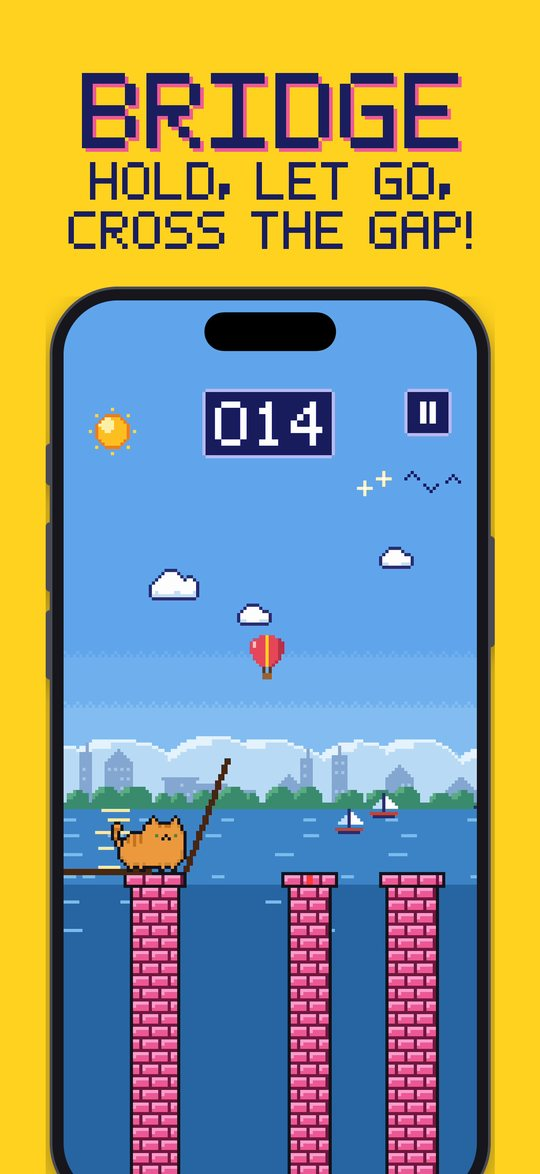
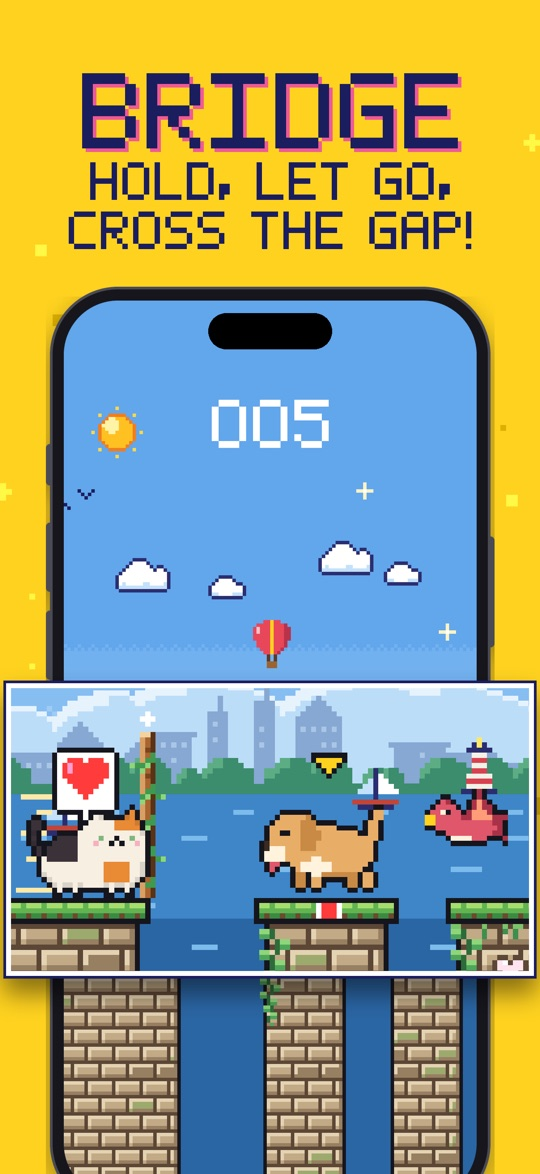
Remove playable demo, use latest App Store screenshots

diff --git a/assets/pixel.js b/assets/pixel.js
@@ -1,4 +1,4 @@
-// Fatty Cat site: the game's 5x7 pixel font (headings) and a tiny playable hero.
+// Fatty Cat site: the game's 5x7 pixel font for headings.
 (() => {
   "use strict";
 
@@ -81,149 +81,4 @@
     el.insertAdjacentHTML("beforeend", svgFor(text, fill, shadow)); // markup built only from glyph data
     el.classList.add("px-ready");
   });
-
-  // ── Mini game ─────────────────────────────────────────────────────
-  const canvas = document.getElementById("play");
-  if (!canvas) return;
-  const ctx = canvas.getContext("2d");
-  const C = {
-    sky: "#62A6EC", bands: ["#72B1EF", "#86BEF2", "#9ECCF5"], bank: "#BCDDF8", trees: "#3C8C6E", treesLight: "#5CAD84",
-    water: "#3E86C8", waterDeep: "#2A66A4", waterLight: "#7CBCEC", pink: "#EE5A96", pinkLight: "#FF9DCF",
-    pinkDark: "#6E1A40", outline: "#15151C", marker: "#FF3B3B", stick: "#4A2712", navy: "#1B1E5E",
-    badge: "#B9BCF4", yellow: "#FFD21F", white: "#FFFFFF",
-  };
-  // Peach, the cat from the store screenshots (CatSkin.swift body, mirrored to face right)
-  const flip = (r) => [...r].reverse().join("");
-  const BODY = [
-    "...K......K.............", "..KFK....KFK............", "..KFSKKKKSFKK........KK.", ".KSFFPPFPFFFFK......KTTK",
-    ".KFFFFFFFFFFFK......KTTK", "KSFFFFFFFFFFFFKKKK...KtK", "KFFEFFNFFEFFFFPFPFK..KTK", "KFCFFNFNFFCFFFPFPFFKKKtK",
-    "KFFFFFFFFFFFFFFFFFFFKTK.", "KFFFFFFFFFFFFFFFFFFFKTK.", "KFFFFFFFFFFFFFFFFFFFFK..", "KSFFFFFFFFFFFFFFFFFFFK..",
-    "KSFBBBBBBBBBBBBBBFFFFK..", "KSFBBBBBBBBBBBBBBFFFSK..", ".KSBBBBBBBBBBBBBBFFSK...", "..KSFSSFSFFFFSFSSFSK....",
-  ];
-  const CAT = BODY.concat(["...KFKKFKKKKKKFKKFK.....", "...KK..KK....KK..KK....."]).map(flip);
-  const CAT_WALK = BODY.concat(["...KFKKKKKKKKKFKKKK.....", "...KK........KK........."]).map(flip);
-  const CAT_COL = { K: C.outline, F: "#F7C4A0", S: "#E0A07C", P: "#E0A07C", E: "#8B6BC6", N: C.outline, C: "#F69AA8", T: "#F7C4A0", t: "#E0A07C", B: "#FFF0E4" };
-  const CLOUD = ["....LLLL....", "..LLWWWWLL..", ".LWWWWWWWWLL", "LWWWWWWWWWWL", "LSSWWWWWWSSL", ".LLLLLLLLLL."];
-  const CLOUD_COL = { L: "#2A2E70", W: C.white, S: "#C3E1FA" };
-  const CAT_W = 24, CAT_H = 18, GH = 64, TOP = 42, GROW = 62, WALK = 50, ROT = 0.32, SCROLL = 0.4;
-
-  let s = 1, GW = 120, pillars = [], cam = 0, camFrom = 0, camTo = 0, t = 0;
-  let phase = "idle", stick = 0, angle = 0, clock = 0, heroX = 0, heroY = 0, vy = 0;
-  let score = 0, best = 0, bonus = 0, walkTo = 0, landed = null, base = null;
-
-  const rand = (a, b) => a + Math.random() * (b - a);
-  function addPillar() {
-    const last = pillars[pillars.length - 1];
-    const x = last ? last.x + last.w + Math.round(rand(12, Math.min(52, GW * 0.42))) : 0;
-    pillars.push({ x, w: last ? Math.round(rand(16, 34)) : 30 });
-  }
-  function reset() {
-    pillars = []; addPillar(); while (pillars[pillars.length - 1].x < GW * 2) addPillar();
-    base = pillars[0]; cam = camFrom = camTo = 0; score = 0; phase = "idle"; stick = 0; angle = 0; vy = 0;
-    heroX = base.x + base.w - CAT_W + 2; heroY = TOP;
-  }
-  const nextOf = (p) => pillars[pillars.indexOf(p) + 1];
-
-  function resize() {
-    const dpr = Math.min(window.devicePixelRatio || 1, 3);
-    s = Math.max(2, Math.floor((canvas.clientHeight * dpr) / GH));
-    canvas.height = GH * s;
-    canvas.width = Math.ceil((canvas.clientWidth * dpr) / s) * s;
-    GW = canvas.width / s;
-    if (!pillars.length || (phase === "idle" && score === 0)) reset();
-  }
-
-  const px = (x, y, w, h, c) => { ctx.fillStyle = c; ctx.fillRect(Math.round(x) * s, Math.round(y) * s, w * s, h * s); };
-  const text = (str, x, y, c) => eachRun(str, (rx, ry, rw) => px(x + rx, y + ry, rw, 1, c));
-
-  function draw() {
-    px(0, 0, GW, GH, C.sky);
-    C.bands.forEach((c, i) => px(0, 22 + i * 3, GW, 3, c));
-    const span = GW + 40;
-    [[10, 6], [47, 13], [83, 4], [121, 10]].forEach(([cx, cy]) => {
-      const x = ((cx * 3 - cam * 0.2) % span + span) % span - 20;
-      CLOUD.forEach((row, y) => { for (let i = 0; i < row.length; i++) if (row[i] !== ".") px(x + i, cy + y, 1, 1, CLOUD_COL[row[i]]); });
-    });
-    px(0, 31, GW, 2, C.bank);
-    for (let x = -(Math.floor(cam * 0.3) % 9); x < GW; x += 9) { px(x, 32, 6, 2, C.treesLight); px(x + 2, 31, 3, 1, C.treesLight); }
-    px(0, 34, GW, 2, C.trees);
-    px(0, 36, GW, GH - 36, C.water);
-    for (let x = -(Math.floor(cam * 0.6) % 23); x < GW; x += 23) { px(x + 3, 39, 4, 1, C.waterLight); px(x + 14, 47, 5, 1, C.waterLight); }
-    px(0, TOP + 4, GW, GH, C.waterDeep);
-
-    const target = nextOf(base);
-    for (const p of pillars) {
-      const x = p.x - cam;
-      if (x > GW || x + p.w < 0) continue;
-      px(x - 1, TOP, p.w + 2, GH, C.outline);
-      px(x, TOP + 1, p.w, GH, C.pink);
-      px(x, TOP + 1, p.w, 1, C.pinkLight);
-      for (let y = TOP + 4, row = 0; y < GH; y += 3, row++) {
-        px(x, y, p.w, 1, C.pinkDark);
-        for (let bx = (row % 2) * 3 + 1; bx < p.w; bx += 6) px(x + bx, y + 1, 1, 2, C.pinkDark);
-      }
-      if (p === target && phase !== "walking") px(x + Math.floor(p.w / 2) - 1, TOP, 2, 1, C.marker);
-    }
-
-    // stick: pivot at the base pillar's right edge, angle 0 = up, π/2 = flat
-    if (stick > 0) {
-      const ox = base.x + base.w - 1 - cam;
-      for (let i = 0; i < Math.round(stick); i++) px(ox + Math.sin(angle) * i, TOP - 1 - Math.cos(angle) * i, 1, 1, C.stick);
-    }
-
-    const sprite = phase === "walking" && Math.floor(clock * 8) % 2 ? CAT_WALK : CAT;
-    sprite.forEach((row, y) => { for (let x = 0; x < row.length; x++) if (row[x] !== ".") px(heroX - cam + x, heroY - CAT_H + y, 1, 1, CAT_COL[row[x]]); });
-
-    const label = String(score).padStart(3, "0"), bw = textWidth(label) + 6, bx = Math.floor((GW - bw) / 2);
-    px(bx - 1, 3, bw + 2, 13, C.badge); px(bx, 4, bw, 11, C.navy); text(label, bx + 3, 6, C.white);
-    if (bonus > 0) text("Perfect +2", Math.round(heroX - cam - 4), heroY - CAT_H - 10, C.yellow);
-    if (phase === "idle" && score === 0) text(best ? `Best ${best}` : "Hold to build", Math.round(heroX - cam) + CAT_W + 4, 18, C.navy);
-  }
-
-  function step(dt) {
-    clock += dt; bonus = Math.max(0, bonus - dt);
-    if (phase === "growing") stick = Math.min(stick + GROW * dt, GW - 8);
-    else if (phase === "rotating") {
-      t += dt; angle = Math.min(1, t / ROT) ** 2 * Math.PI / 2;
-      if (t >= ROT) {
-        const tip = base.x + base.w - 1 + stick, nx = nextOf(base);
-        landed = nx && tip >= nx.x && tip <= nx.x + nx.w ? nx : null;
-        walkTo = landed ? landed.x + landed.w - CAT_W + 2 : tip - CAT_W / 2;
-        if (landed && Math.abs(tip - (landed.x + landed.w / 2)) <= 1.5) { score += 2; bonus = 1; }
-        else if (landed) score += 1;
-        phase = "walking";
-      }
-    } else if (phase === "walking") {
-      heroX = Math.min(walkTo, heroX + WALK * dt);
-      if (heroX >= walkTo) {
-        if (landed) {
-          stick = 0; angle = 0; base = landed; phase = "scrolling"; t = 0; camFrom = cam; camTo = landed.x - 4;
-          while (pillars[pillars.length - 1].x < camTo + GW * 2) addPillar();
-        } else { phase = "falling"; vy = 0; t = 0; }
-      }
-    } else if (phase === "scrolling") {
-      t += dt; const k = Math.min(1, t / SCROLL); cam = camFrom + (camTo - camFrom) * (1 - (1 - k) ** 3);
-      if (k >= 1) { phase = "idle"; pillars = pillars.filter((p) => p.x + p.w > cam - 4); }
-    } else if (phase === "falling") {
-      t += dt; vy += 400 * dt; heroY += vy * dt;
-      if (t > 1.1) { best = Math.max(best, score); reset(); }
-    }
-  }
-
-  let last = 0, running = false;
-  function frame(now) {
-    step(Math.min((now - last) / 1000, 1 / 20)); last = now; draw();
-    if (phase !== "idle" || bonus > 0) requestAnimationFrame(frame); else running = false;
-  }
-  const kick = () => { if (!running) { running = true; last = performance.now(); requestAnimationFrame(frame); } };
-
-  function press() { if (phase === "idle") { phase = "growing"; stick = 0; angle = 0; kick(); } }
-  function release() { if (phase === "growing") { phase = "rotating"; t = 0; } }
-  canvas.addEventListener("pointerdown", (e) => { e.preventDefault(); canvas.setPointerCapture(e.pointerId); press(); });
-  ["pointerup", "pointercancel"].forEach((n) => canvas.addEventListener(n, release));
-  canvas.addEventListener("contextmenu", (e) => e.preventDefault());
-  canvas.addEventListener("keydown", (e) => { if (e.code === "Space" || e.code === "Enter") { e.preventDefault(); if (!e.repeat) press(); } });
-  canvas.addEventListener("keyup", (e) => { if (e.code === "Space" || e.code === "Enter") release(); });
-
-  new ResizeObserver(() => { resize(); draw(); }).observe(canvas);
 })();

diff --git a/index.html b/index.html
@@ -32,21 +32,19 @@
     <a class="cta" href="https://apps.apple.com/vn/app/fatty-cat-offline-game/id6810916736" rel="noopener">Download on the App Store</a>
     <span class="cta-note">Free on iPhone and iPad. No ads, no purchases.</span>
   </div>
-  <div class="stage">
-    <canvas id="play" tabindex="0" aria-label="Playable demo. Press and hold the scene or the space bar to grow the stick, then let go to drop it."></canvas>
-    <p class="stage-hint">Try it here: press and hold the scene (or the space bar), then let go.</p>
-  </div>
 </section>
 
 <section class="screens" aria-labelledby="screens-title">
   <div class="wrap"><h2 id="screens-title" class="px" data-px>In the game</h2></div>
   <ul class="strip">
-      <li><img src="assets/shots/01-bridge.jpg" width="540" height="1174" loading="lazy" alt="Bridge the gap: hold, let go, cross. The cat stands on a pink brick pillar as its stick falls toward the next one."></li>
-      <li><img src="assets/shots/02-pick.jpg" width="540" height="1174" loading="lazy" alt="Pick from 31 chunky cats: the Pick a cat screen with a grid of pixel cats."></li>
-      <li><img src="assets/shots/03-relax.jpg" width="540" height="1174" loading="lazy" alt="Relax under day and night skies: the cat crossing pillars under a starry night sky."></li>
-      <li><img src="assets/shots/04-beat.jpg" width="540" height="1174" loading="lazy" alt="Beat your best with Perfect +2: the cat lands in the middle of a pillar for a bonus."></li>
-      <li><img src="assets/shots/05-noads.jpg" width="540" height="1174" loading="lazy" alt="No ads, no wifi needed: the Fatty Cat start screen with the Play button."></li>
-      <li><img src="assets/shots/06-free.jpg" width="540" height="1174" loading="lazy" alt="Every cat is free with no purchases: the second page of the cat picker."></li>
+      <li><img src="assets/shots/01-bridge.jpg" width="540" height="1174" loading="lazy" alt="Bridge: hold, let go, cross the gap. The cat stands on a brick pillar as its stick falls toward the next one."></li>
+      <li><img src="assets/shots/02-dodge.jpg" width="540" height="1174" loading="lazy" alt="Dodge dogs and birds with a swipe: the cat leaps over a charging dog."></li>
+      <li><img src="assets/shots/03-pick.jpg" width="540" height="1174" loading="lazy" alt="Pick from 31 chunky cats: the Pick a cat screen with a grid of pixel cats."></li>
+      <li><img src="assets/shots/04-bonk.jpg" width="540" height="1174" loading="lazy" alt="Bonk: laugh at every silly tumble when a dog knocks the cat off."></li>
+      <li><img src="assets/shots/05-relax.jpg" width="540" height="1174" loading="lazy" alt="Relax under day and night skies: the cat crossing pillars at night."></li>
+      <li><img src="assets/shots/06-beat.jpg" width="540" height="1174" loading="lazy" alt="Beat your best with Perfect +2: the cat lands in the middle of a pillar for a bonus."></li>
+      <li><img src="assets/shots/07-play.jpg" width="540" height="1174" loading="lazy" alt="Free, no ads, no wifi needed: the Fatty Cat start screen with the Play button."></li>
+      <li><img src="assets/shots/08-badges.jpg" width="540" height="1174" loading="lazy" alt="Collect 49 badges to earn and claim: the Badges screen with progress bars."></li>
   </ul>
 </section>
 
@@ -56,7 +54,8 @@
       <h2 id="inside-title" class="px" data-px>What's inside</h2>
       <ul class="facts">
         <li><strong>31 chunky cats</strong>, every one free from the first launch.</li>
-        <li>One-finger controls: hold to grow the stick, let go to drop it.</li>
+        <li>One-finger controls: hold to grow the stick, let go to drop it, swipe up to jump over dogs and birds.</li>
+        <li><strong>49 badges</strong> to earn and claim.</li>
         <li>Drop the stick on a pillar's red mark for <strong>Perfect +2</strong>.</li>
         <li>The sky follows your clock, from sunny morning to starry night. Pin your favourite in Settings.</li>
         <li><strong>No ads, no purchases, no account, no tracking.</strong> Plays fully offline.</li>

diff --git a/assets/style.css b/assets/style.css
@@ -69,18 +69,6 @@ a.cta:hover { transform: translate(2px, 2px); box-shadow: 3px 3px 0 var(--outlin
 a.cta:active { transform: translate(5px, 5px); box-shadow: none; }
 .cta-note { display: block; margin-top: 0.9rem; font-size: 0.95rem; }
 
-.stage { margin-top: clamp(2rem, 6vw, 3.5rem); }
-#play {
-  display: block; width: 100%; height: clamp(15rem, 30vw, 18rem);
-  image-rendering: pixelated; cursor: pointer;
-  touch-action: none; user-select: none; -webkit-user-select: none; -webkit-touch-callout: none;
-}
-#play:focus-visible { outline-offset: -6px; box-shadow: none; }
-.stage-hint {
-  margin: 0; padding: 0.7rem 1rem; text-align: center; font-size: 0.95rem;
-  background: var(--navy); color: var(--white);
-}
-
 /* ── Screens ── */
 .screens { background: var(--yellow); padding-block: clamp(3rem, 8vw, 5rem); }
 .screens h2 { --px-h: clamp(1.9rem, 5vw, 2.6rem); }
